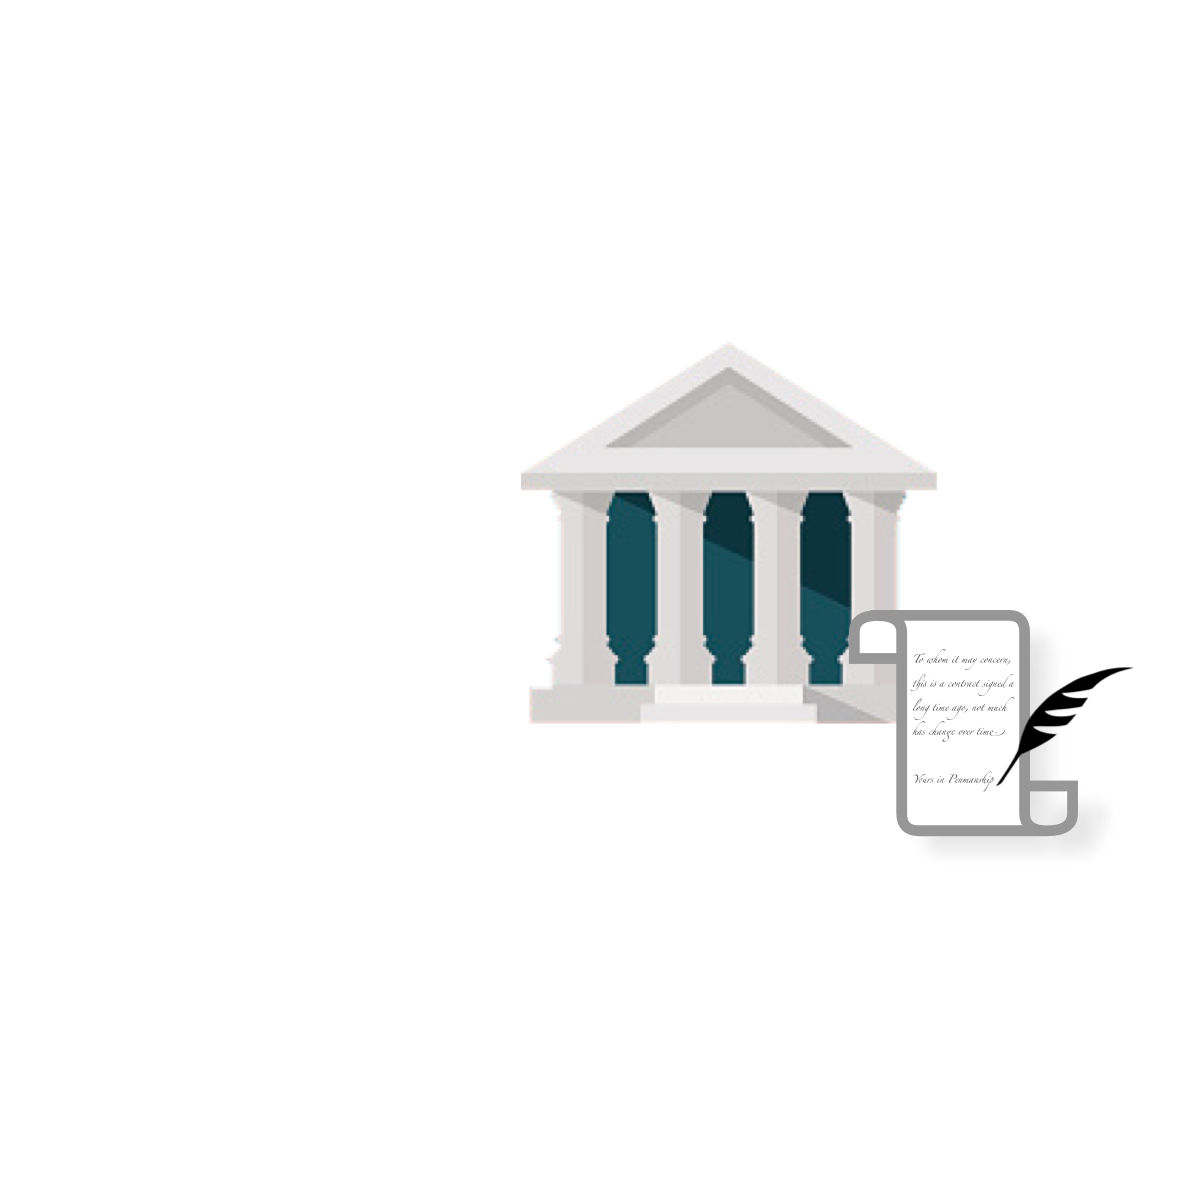
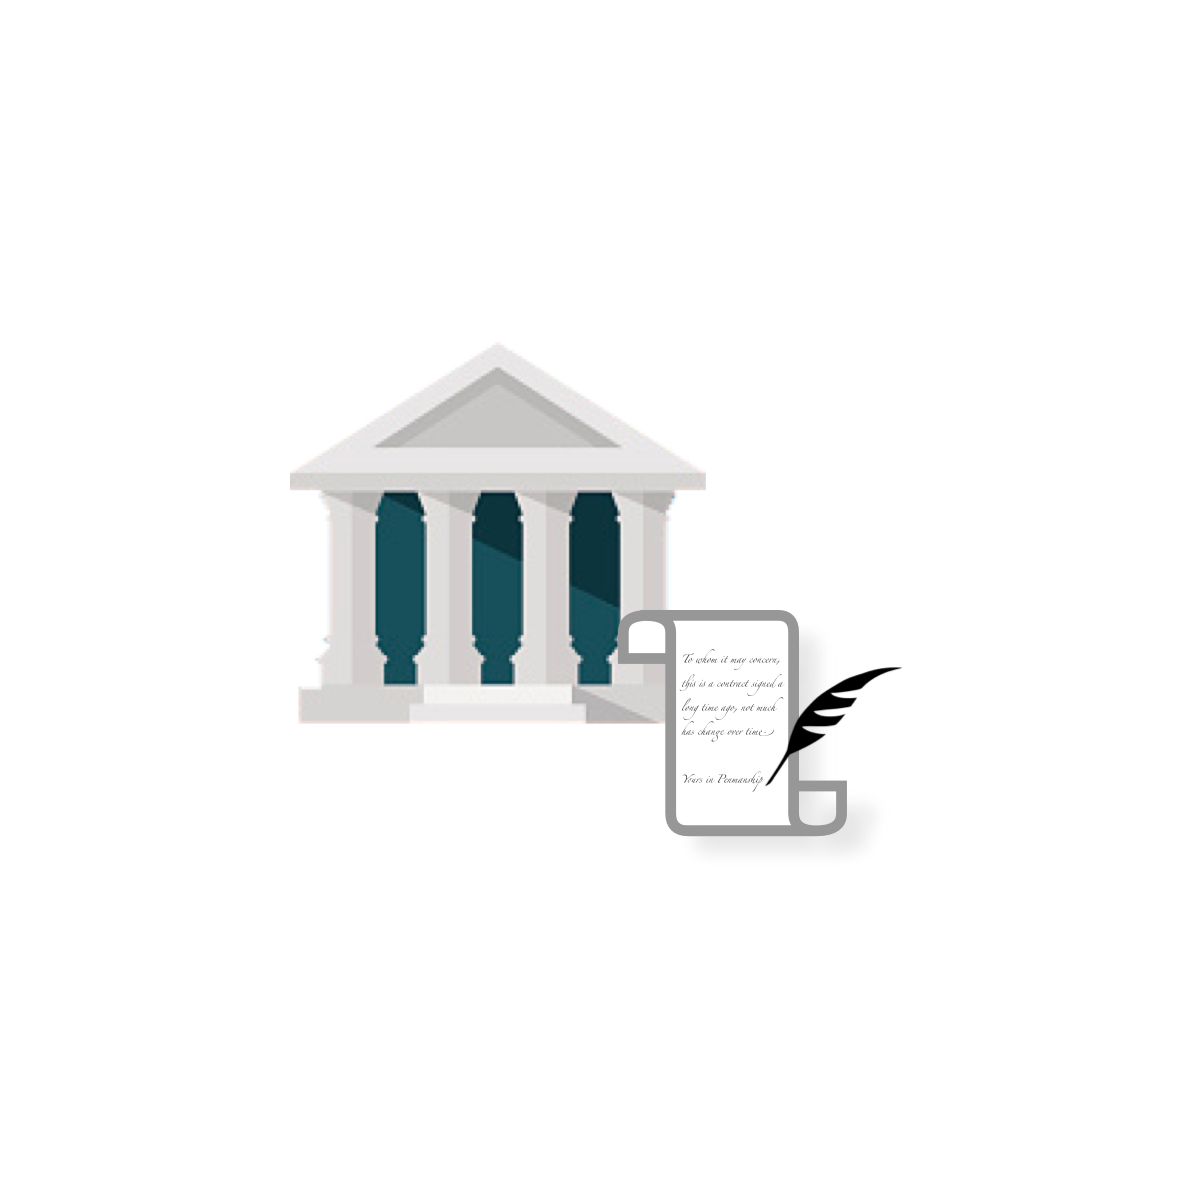
about

Changed region(s): [[0.2467, 0.2775, 0.925, 0.7092]]

diff --git a/about.html b/about.html
@@ -123,16 +123,15 @@
   </main><!-- End #main -->
 
 <!-- ======= Archaic Section ======= -->
-    <section id="archaic" class="about bkGraphic6">
-      <div class="container">
+  <section id="verification" class="d-flex align-items-center">
+ <div class="container">
         <div class="row content align-items-center">
           <div class="container">
       <div class="row">
        </div>
-         <br><br>
         <div class="row content align-items-center">
-          <div class="col-lg-6 offset-lg-6 bg-white" data-aos="fade-up" data-aos-delay="150">
-            
+          <img src="https://www.databased.finance/assets/img/img_bank.png" class="img-fluid zoom-in col-sm-6" alt="">
+          <div class="col-sm-6 bg-white" data-aos="fade-up" data-aos-delay="150">
             <h4>Funding for inventory is currently archaic and anachronistic.</h4>
             <br><br>
             <p>Banked relationships take months or years to build. <br> They are expensive to administer and fail to react to dynamic marketplace forces.
@@ -140,9 +139,6 @@
             </p>
             <div data-aos="fade-up" data-aos-delay="800">
             <a href="#Verified" class="btn-get-started scrollto">Next</a>
-              <div class="partnerlogos">
-              <!--<img src="assets/img/track.one.gif" class="" alt="">-->
-              <!--<img src="assets/img/logo_trackone_button_high.png" class="right img-fluid" alt="" data-aos="zoom-in" data-aos-delay="200" alt="">-->
               </div>
           </div>
         </div>
@@ -157,10 +153,10 @@
     <div class="container">
       <div class="row">
         <div class="col-lg-6 pt-5 pt-lg-0 order-2 order-lg-1 d-flex flex-column justify-content-center">
-          <h4 data-aos="fade-up">Enterprise Resource Planning Systems, Third Party Fullfillment and historical on-line sales data provide the information needed to value a company's inventory.</h4>
+          <h4 data-aos="fade-up">We can access the data</h4>
           <br><br>
           <p data-aos="fade-up" data-aos-delay="400"> 
-         With third-party verification of data, firms can utilize these assets to fund their business from capital providers who assess value based on previous performance.
+         Enterprise Resource Planning Systems, Third Party Fullfillment and historical on-line sales data provide the information needed to value a company's inventory. With third-party verification of that data, firms can utilize these assets to fund their business from capital providers who assess value based on previous performance.
          <br><br>
        <h4 data-aos="fade-up">Verified Data lowers the risk for all parties.</h4> </p>
 
